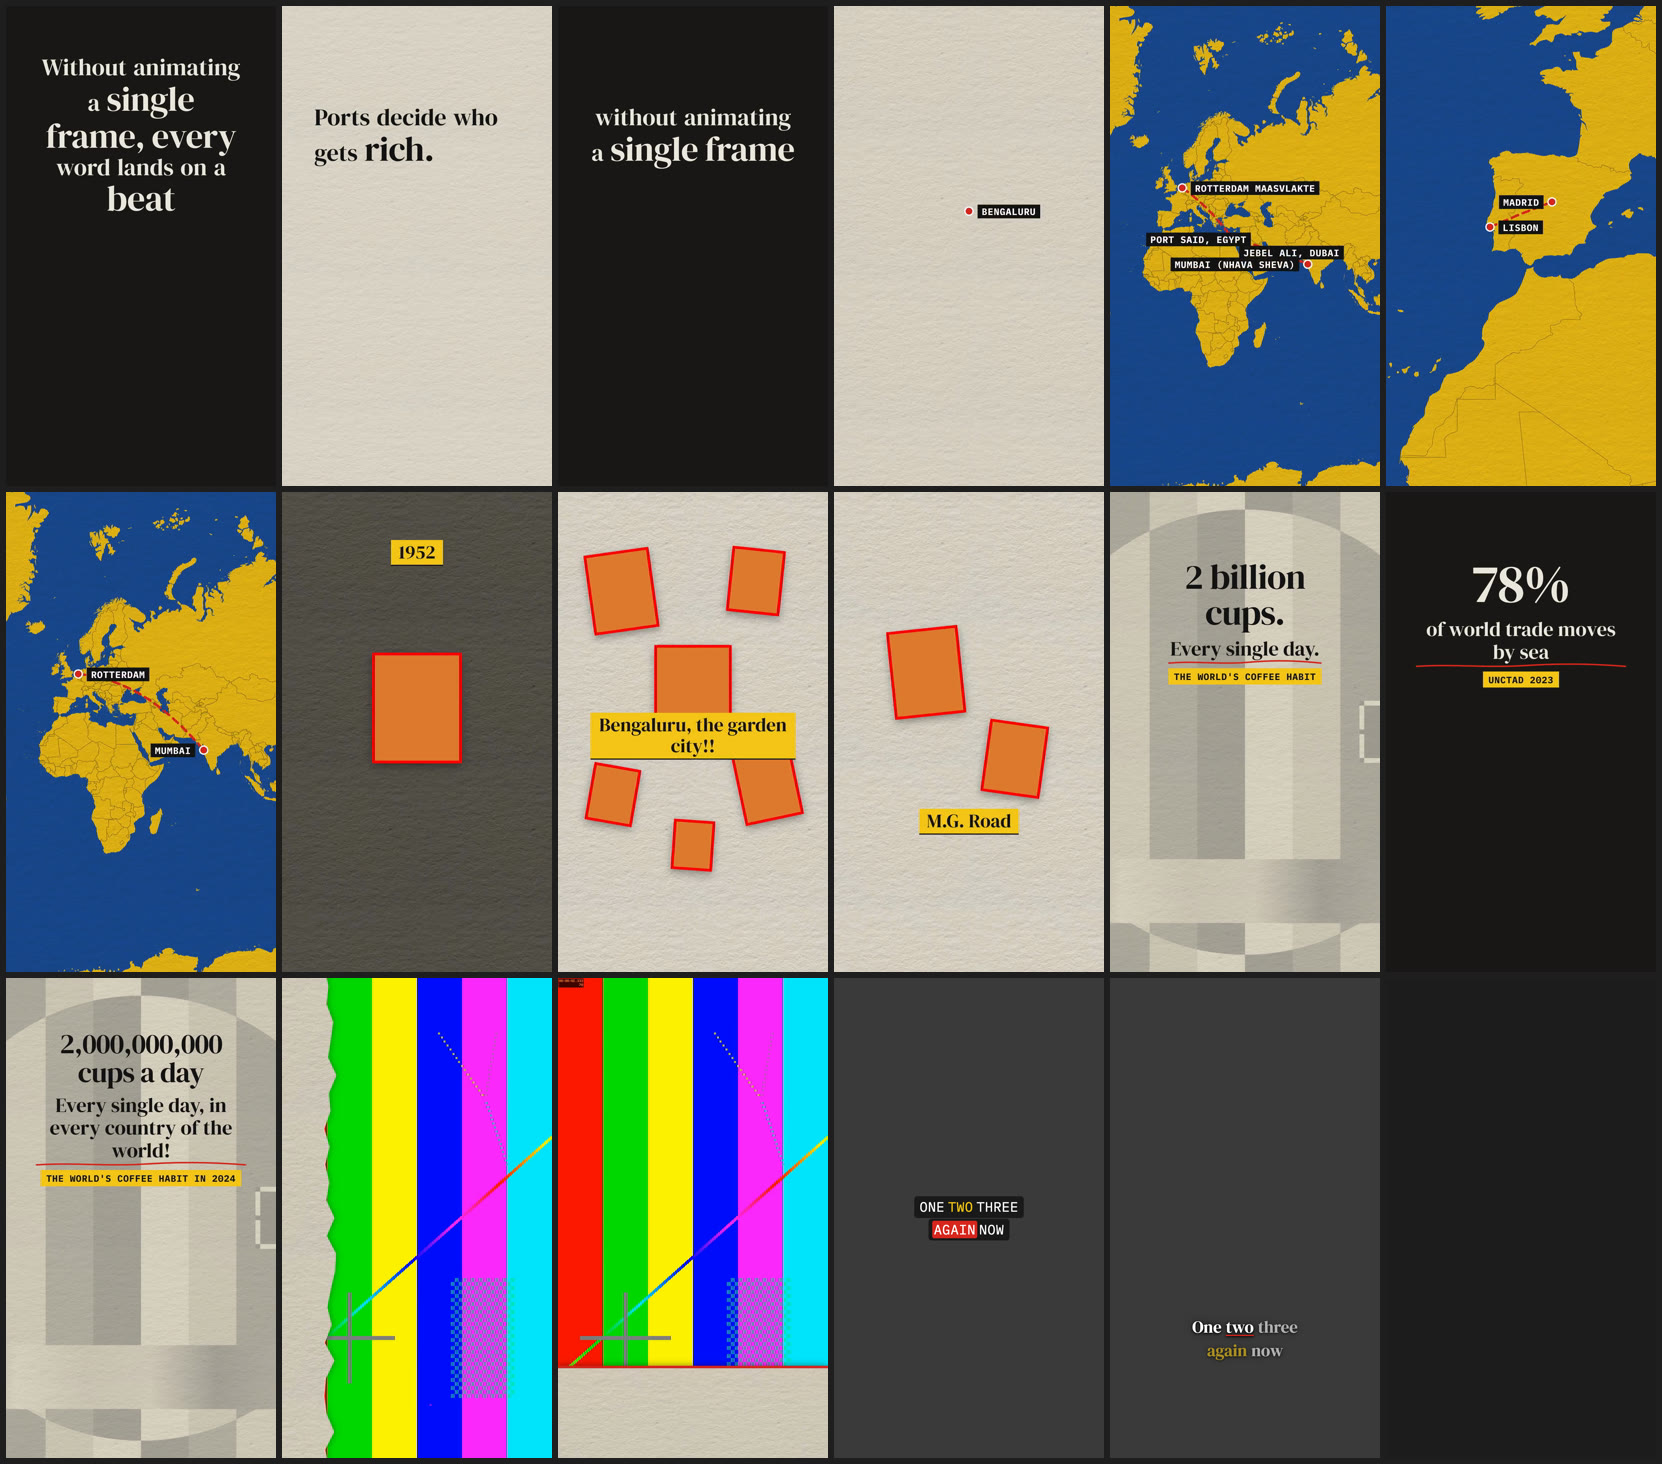
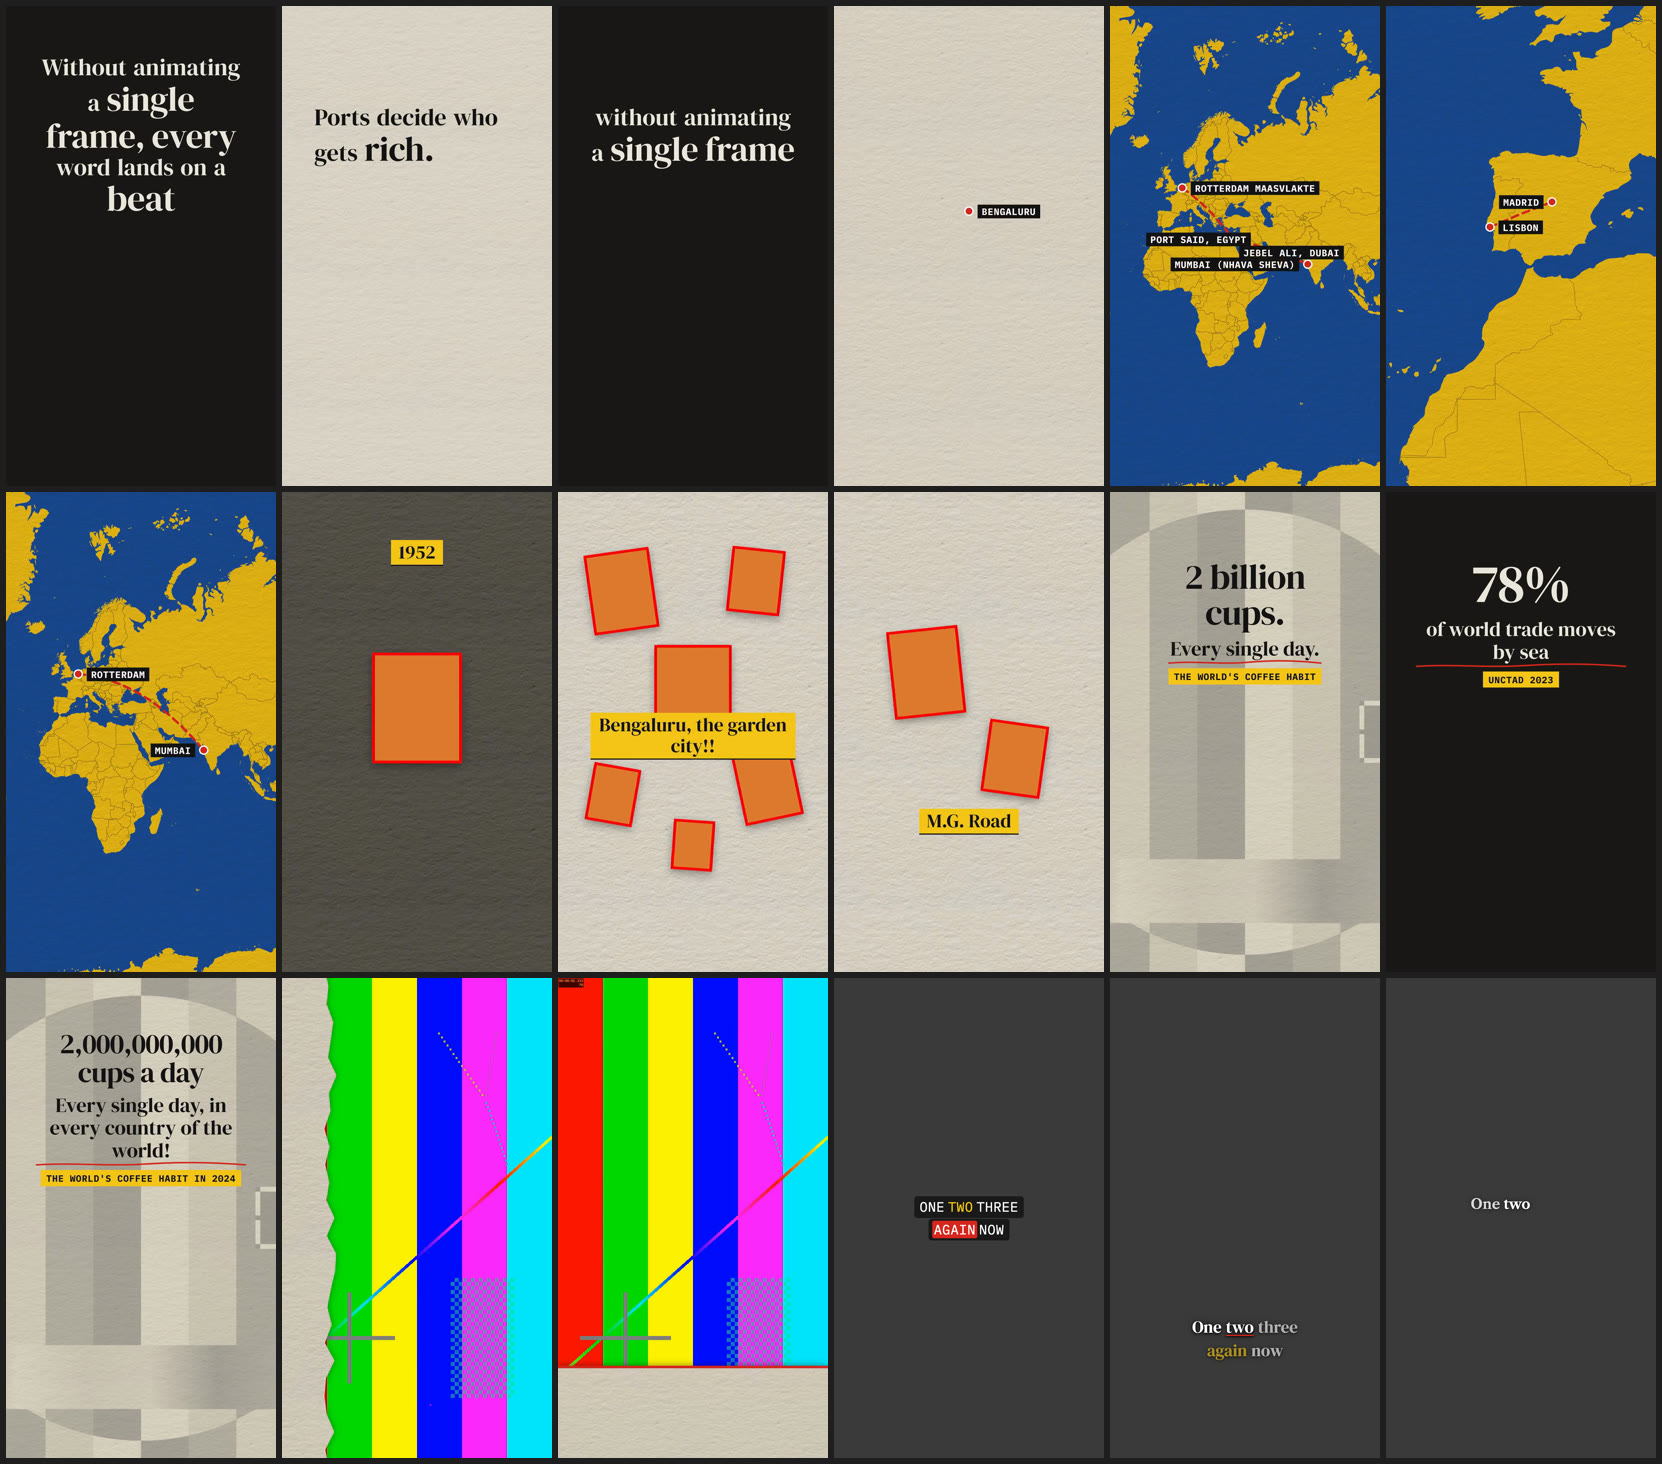
phase-07: vox/word-reveal caption preset (GATE 3 round 1 iteration from the documentary references)
Box-free word-by-word captions at mid height: unread words hidden, the active word full
white, read words at 80 %, emphasis words in a larger italic display serif. The side-by-side
script gains two rows for the metro.media.house3 and attentioncompound references.

Changed region(s): [[0.8285, 0.6455, 1.0, 1.0]]

diff --git a/styles/vox/captions/word-reveal.html b/styles/vox/captions/word-reveal.html
@@ -1,0 +1,118 @@
+<!doctype html>
+<html>
+  <head>
+    <meta charset="UTF-8" />
+  </head>
+  <body>
+    <template>
+      <!--vox:tokens-->
+      <style>
+        #root {
+          position: absolute;
+          inset: 0;
+          overflow: hidden;
+          pointer-events: none;
+        }
+        .c-layer {
+          position: absolute;
+          inset: 0;
+        }
+        .c-chunk {
+          position: absolute;
+          opacity: 0;
+          display: flex;
+          flex-direction: column;
+          align-items: center;
+          white-space: nowrap;
+        }
+        .c-line {
+          display: block;
+        }
+        .c-word {
+          font-family: var(--tok-font-body);
+          font-weight: 600;
+          color: var(--tok-color-caption);
+          opacity: 0;
+          text-shadow:
+            0 0.03em 0.08em rgb(0 0 0 / 85%),
+            0 0 0.4em rgb(0 0 0 / 55%);
+        }
+        .c-word.c-emph {
+          font-family: var(--tok-font-display);
+          font-weight: var(--tok-font-display-weight);
+          font-style: italic;
+          font-size: 1.4em;
+        }
+      </style>
+      <div
+        id="root"
+        data-composition-id="__ID__"
+        data-width="__W__"
+        data-height="__H__"
+        data-duration="__DUR__"
+      >
+        <!--vox:vars-->
+        <div class="c-layer"></div>
+      </div>
+      <script>
+        // vox/word-reveal: box-free, word by word at mid height (the documentary references in
+        // phase 07). Unread words are hidden, the active word is full white, read words stay at
+        // 80 %, emphasis words are a larger italic display serif. Lines come from the engine (never
+        // re-wrapped); the box is placed from the font size and line count without measuring the
+        // DOM; all state changes are timeline sets at word times.
+        (function () {
+          var mount = vox.mount('__ID__');
+          var root = mount.root;
+          var v = mount.vars;
+          // chunks go inside the composition's own markup, where its styles apply
+          var layer = root.querySelector('.c-layer');
+          var W = __W__;
+          var H = __H__;
+          var side = (v.safeArea.rightPct / 100) * W;
+          var usable = W - 2 * side;
+          // Libre Caslon Text averages about 0.55 em per character; leave room for 1.4x emphasis
+          var cols = Math.max(1, v.maxCharsPerLine);
+          var size = Math.min(W * 0.052, usable / (cols * 0.55 * 1.4));
+          // the line height covers a 1.4x emphasis word's content area (about 1.36 em)
+          var lineH = size * 1.4 * 1.4;
+          var limit = (1 - v.safeArea.bottomPct / 100) * H;
+          var centre = (v.position.yPct / 100) * H;
+          var tl = gsap.timeline({ paused: true });
+          for (var i = 0; i < v.chunks.length; i++) {
+            var c = v.chunks[i];
+            var el = document.createElement('div');
+            el.className = 'c-chunk';
+            var h = c.lines.length * lineH;
+            var top = Math.max(0, Math.min(centre - h / 2, limit - h));
+            el.style.left = side + 'px';
+            el.style.width = usable + 'px';
+            el.style.top = top + 'px';
+            el.style.fontSize = size + 'px';
+            el.style.lineHeight = lineH + 'px';
+            for (var l = 0; l < c.lines.length; l++) {
+              var line = document.createElement('div');
+              line.className = 'c-line';
+              var words = c.lines[l].words;
+              for (var k = 0; k < words.length; k++) {
+                var w = words[k];
+                if (k > 0) line.appendChild(document.createTextNode(' '));
+                var span = document.createElement('span');
+                span.className = w.emphasis ? 'c-word c-emph' : 'c-word';
+                span.setAttribute('data-key', w.key);
+                span.textContent = w.text;
+                line.appendChild(span);
+                tl.set(span, { opacity: 1 }, w.startMs / 1000);
+                tl.set(span, { opacity: 0.8 }, w.endMs / 1000);
+              }
+              el.appendChild(line);
+            }
+            layer.appendChild(el);
+            tl.set(el, { opacity: 1 }, c.startMs / 1000);
+            tl.set(el, { opacity: 0 }, c.endMs / 1000);
+          }
+          window.__timelines[mount.key] = mount.register(tl);
+        })();
+      </script>
+    </template>
+  </body>
+</html>

diff --git a/packages/engine/test/styles/vox/style.test.ts b/packages/engine/test/styles/vox/style.test.ts
@@ -12,7 +12,7 @@ const reg = loadStyleRegistry({ stylesDirs: [REPO_STYLES] });
 const VOX = join(REPO_STYLES, 'vox');
 
 describe('styles/vox', () => {
-  test('loads: 4 scene templates, 2 transitions, 2 caption presets, the paper-grain overlay', () => {
+  test('loads: 4 scene templates, 2 transitions, 3 caption presets, the paper-grain overlay', () => {
     expect(reg.problems()).toEqual([]);
     const vox = reg.get('vox');
     const own = Object.values(vox.templates).filter((t) => t.styleId === 'vox');
@@ -24,7 +24,11 @@ describe('styles/vox', () => {
       'transition:vox/paper-tear',
       'transition:vox/slide-paper',
     ]);
-    expect(Object.keys(vox.captionPresets).sort()).toEqual(['vox/mono-box', 'vox/serif-lower']);
+    expect(Object.keys(vox.captionPresets).sort()).toEqual([
+      'vox/mono-box',
+      'vox/serif-lower',
+      'vox/word-reveal',
+    ]);
     expect(vox.style.captions.default).toBe('vox/mono-box');
     expect(vox.overlays.map((o) => [o.name, o.default])).toEqual([['paper-grain', true]]);
   });

diff --git a/scripts/vox-demo.ts b/scripts/vox-demo.ts
@@ -100,7 +100,7 @@ async function main(argv: string[]): Promise<void> {
       enabled: true,
       preset,
       autoEmphasis: true,
-      position: { yPct: preset === 'vox/mono-box' ? 50 : 78 },
+      position: { yPct: preset === 'vox/serif-lower' ? 78 : 50 },
     },
   });
   // addSequence creates V1 and V2; the speaker is on V1, the scenes go on V2

diff --git a/styles/vox/guide.md b/styles/vox/guide.md
@@ -38,6 +38,8 @@ If none fits, stay on the speaker.
   emphasis words sit on a red box.
 - `vox/serif-lower`: white serif low in the frame, for sequences where most beats are full collage and
   the centre is busy.
+- `vox/word-reveal`: no box, word by word at mid height (unread words hidden), emphasis words in a large
+  italic serif; for documentary-style edits that are mostly b-roll and archive footage.
 
 ## Pacing
 
